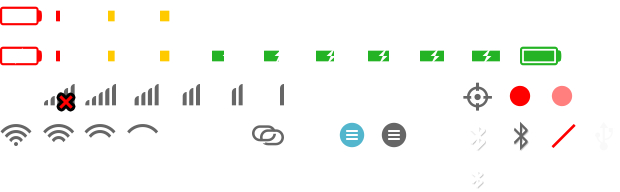
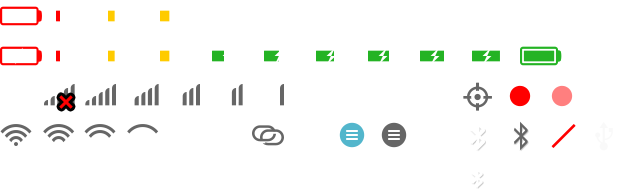
Bug 1019216 - [Flame] The network status bars are being clipped

diff --git a/style/statusbar/statusbar.css b/style/statusbar/statusbar.css
@@ -278,7 +278,7 @@ body.rb-enabled #statusbar-label {
   width: 1.6rem;
   height: 1.6rem;
   background: url('images/icons.png') no-repeat;
-  background-size: 31.4rem 9.6rem;
+  background-size: 32rem 9.6rem;
 }
 
 .sb-icon-battery {
